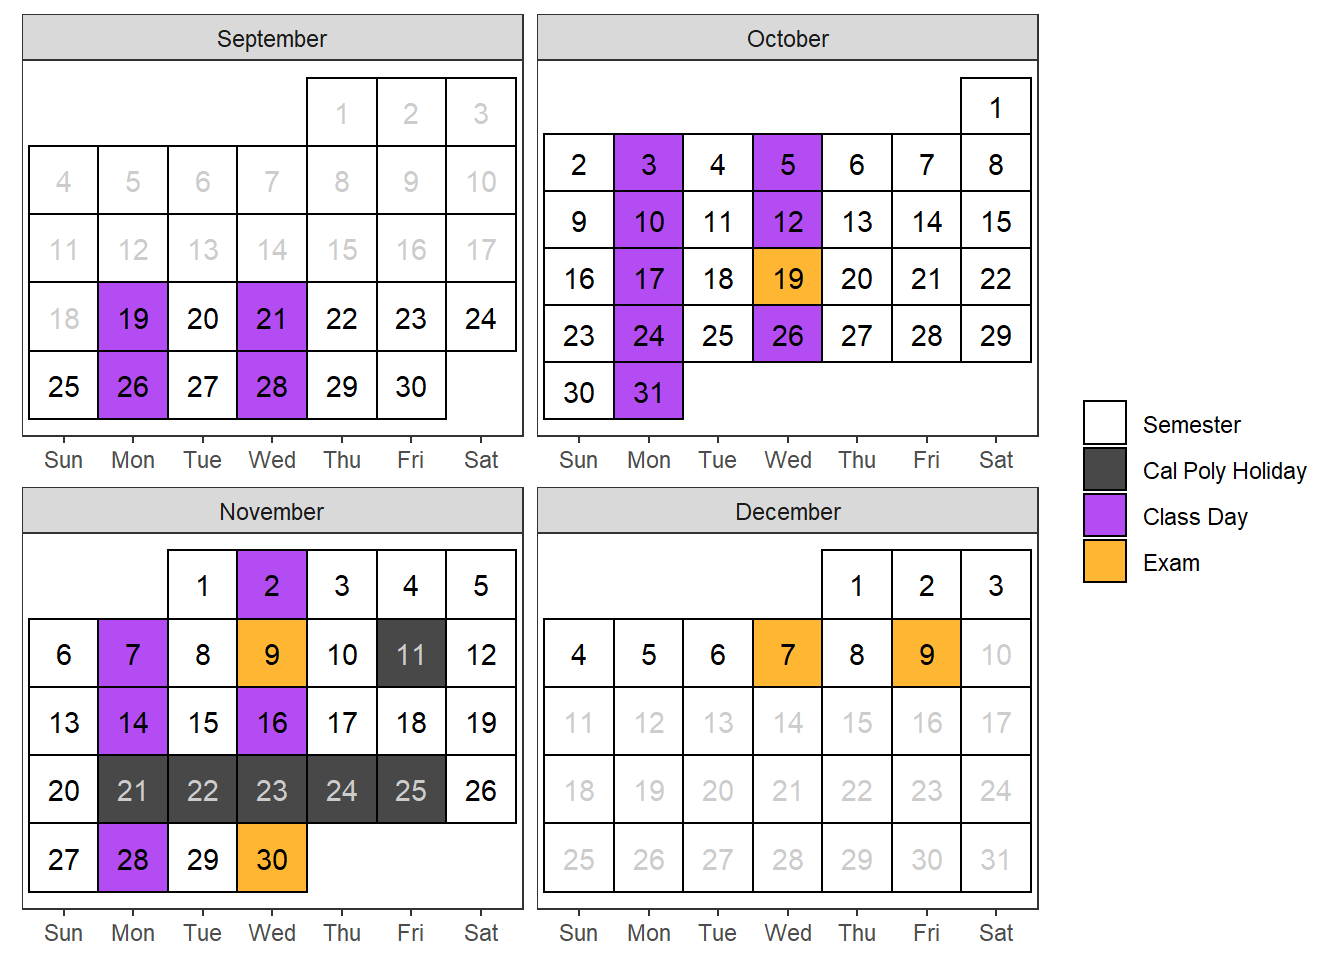
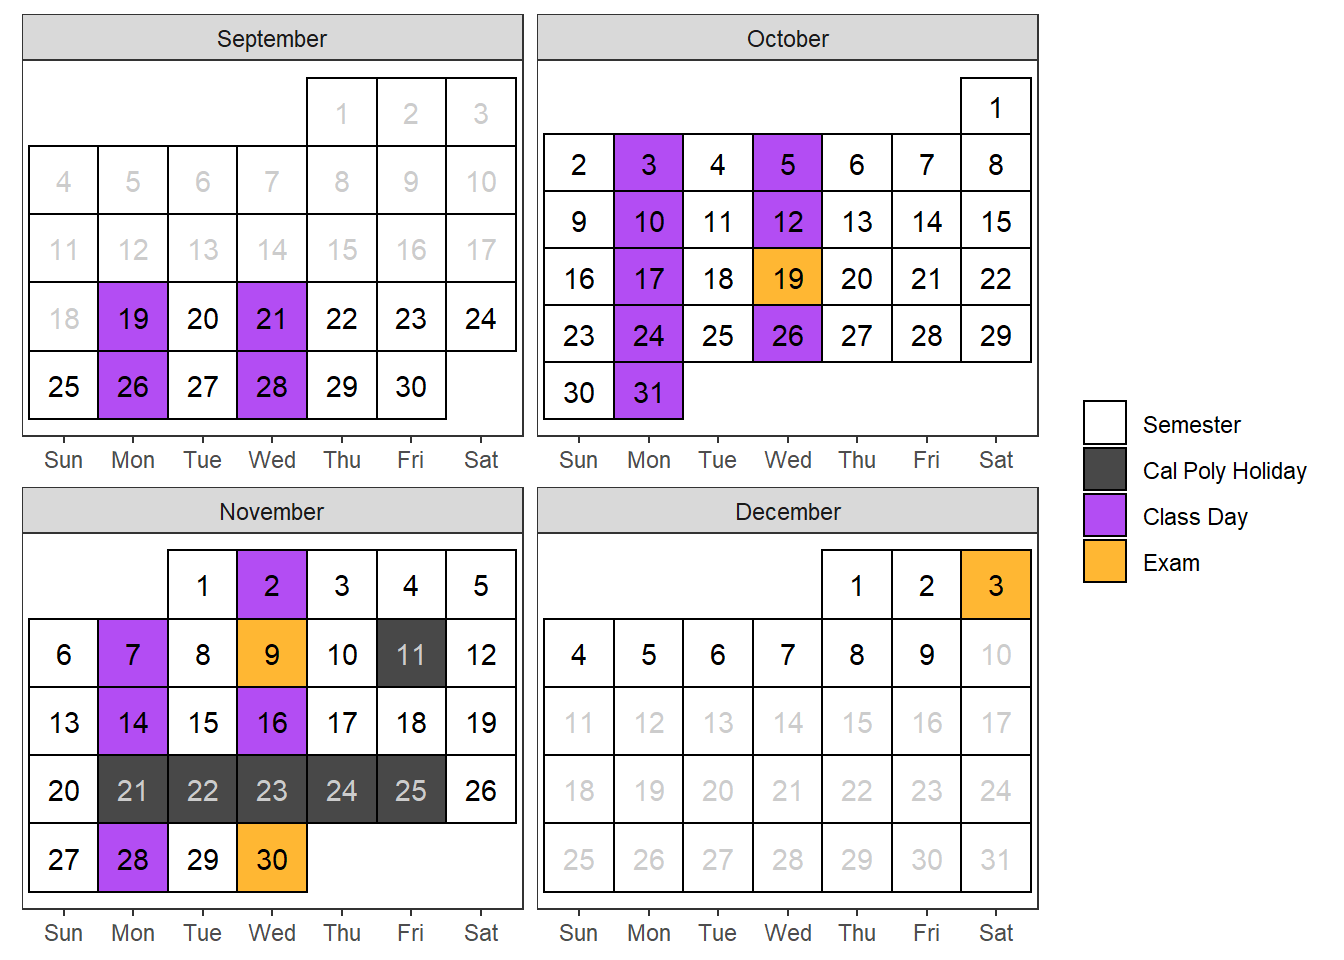
Added common final times / adjusted syllabus

Changed region(s): [[0.6562, 0.5625, 0.7812, 0.7188], [0.5625, 0.625, 0.625, 0.7188]]

diff --git a/00-course-info/syllabus.html b/00-course-info/syllabus.html
@@ -322,12 +322,8 @@ ul.task-list li input[type="checkbox"] {
 <td style="text-align: left;">Final Exam (Group Portion) In Class</td>
 </tr>
 <tr class="even">
-<td style="text-align: left;">Dec 7</td>
-<td style="text-align: left;">Final Exam (Section 06) at 4:10-7:00 PM</td>
-</tr>
-<tr class="odd">
-<td style="text-align: left;">Dec 9</td>
-<td style="text-align: left;">Final Exam (Section 05) at 1:10-4:00 PM</td>
+<td style="text-align: left;">Dec 3</td>
+<td style="text-align: left;">Final Exam (Individual) at 10:10AM-1:00PM</td>
 </tr>
 </tbody>
 </table>

diff --git a/06-inference-for-two-means-paired/slides/index.html b/06-inference-for-two-means-paired/slides/index.html
@@ -399,7 +399,26 @@ class: inverse
  + Lab 6: Color Interference
  + Return Exams
  
-  
+---
+class:primary
+# FINAL EXAM
+
+**Group Portion**
+
++ In class
++ Wednesday, November 30th
+
+**Individual Portion**
+
++ Common final time approved
++ Saturday, December 3rd
++ 10:10AM - 1:00PM
++ Business 003-0111/0112
+
+**Alternate Individual Final**
+
++ Email me if we need to find an alternate time for the individual exam.
+
 ---
 class:primary
 # MIDTERM PROJECT MISCONCEPTIONS
